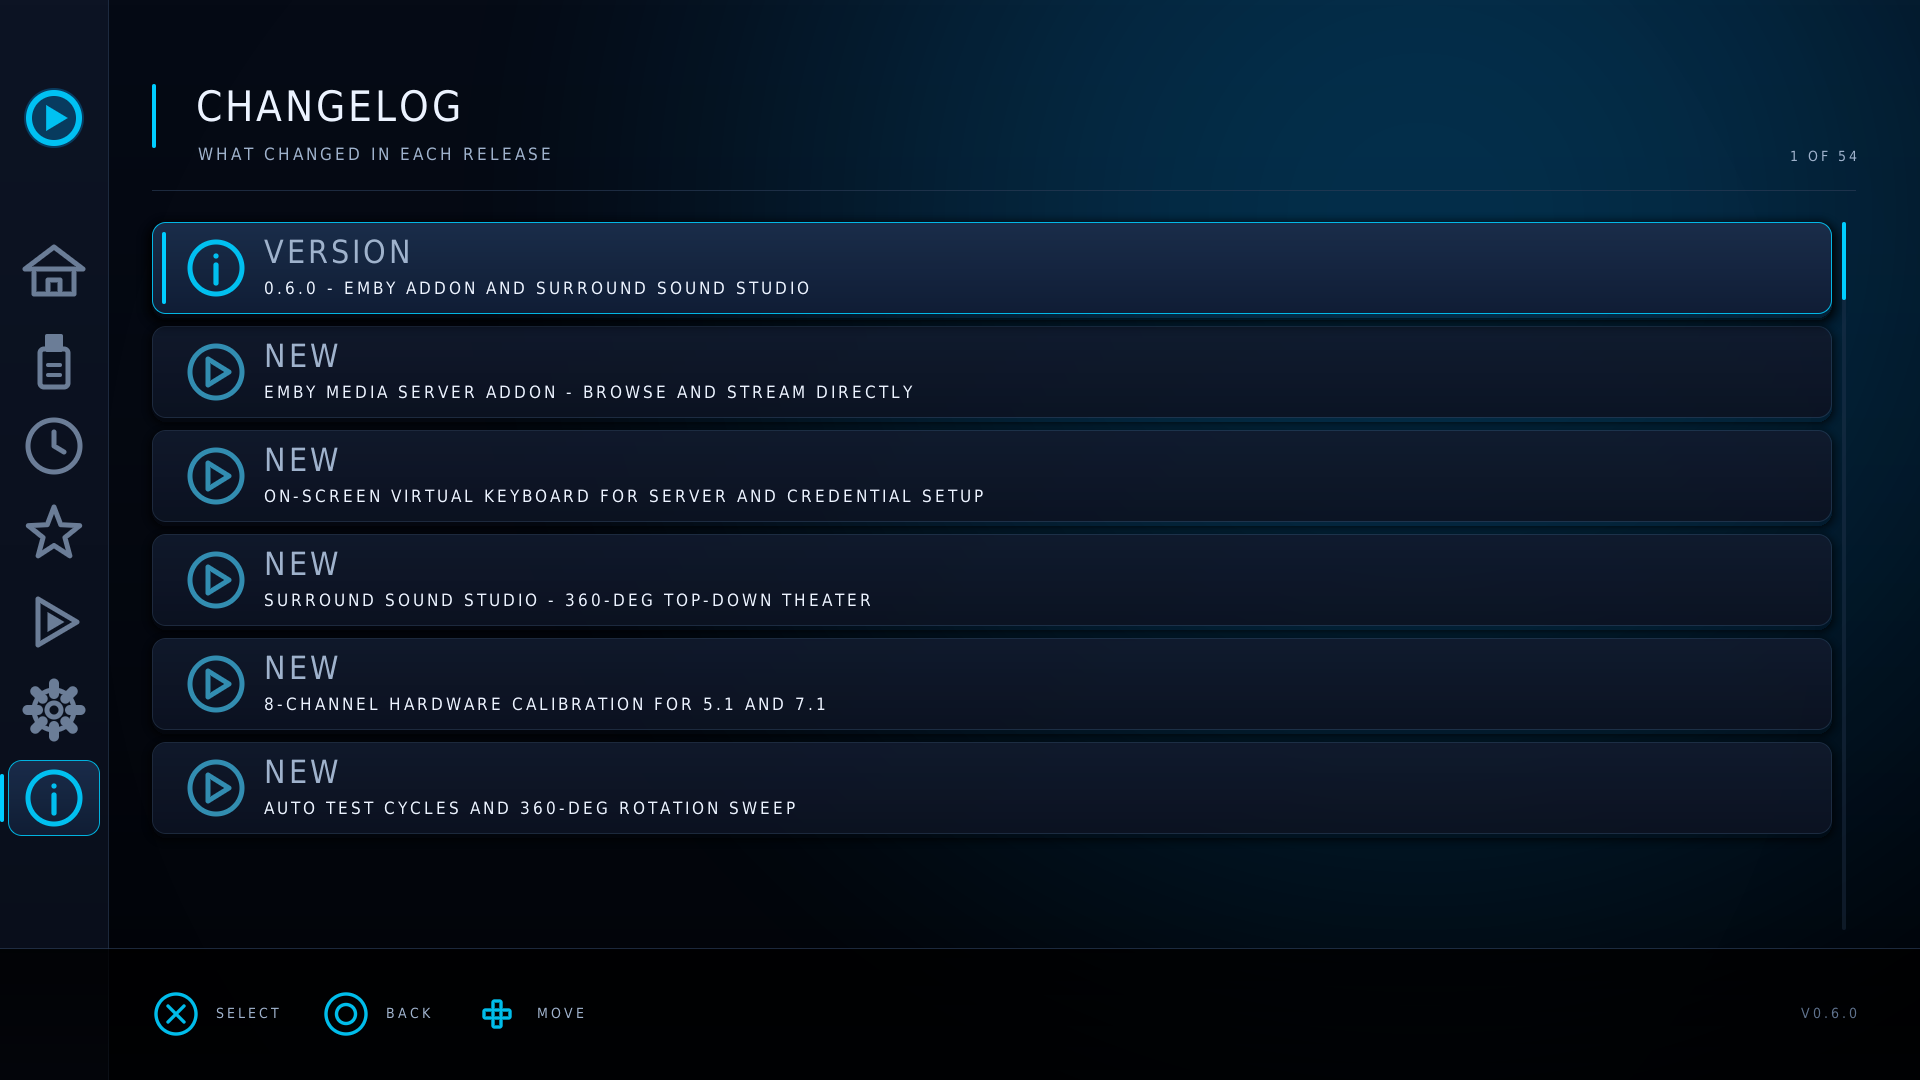
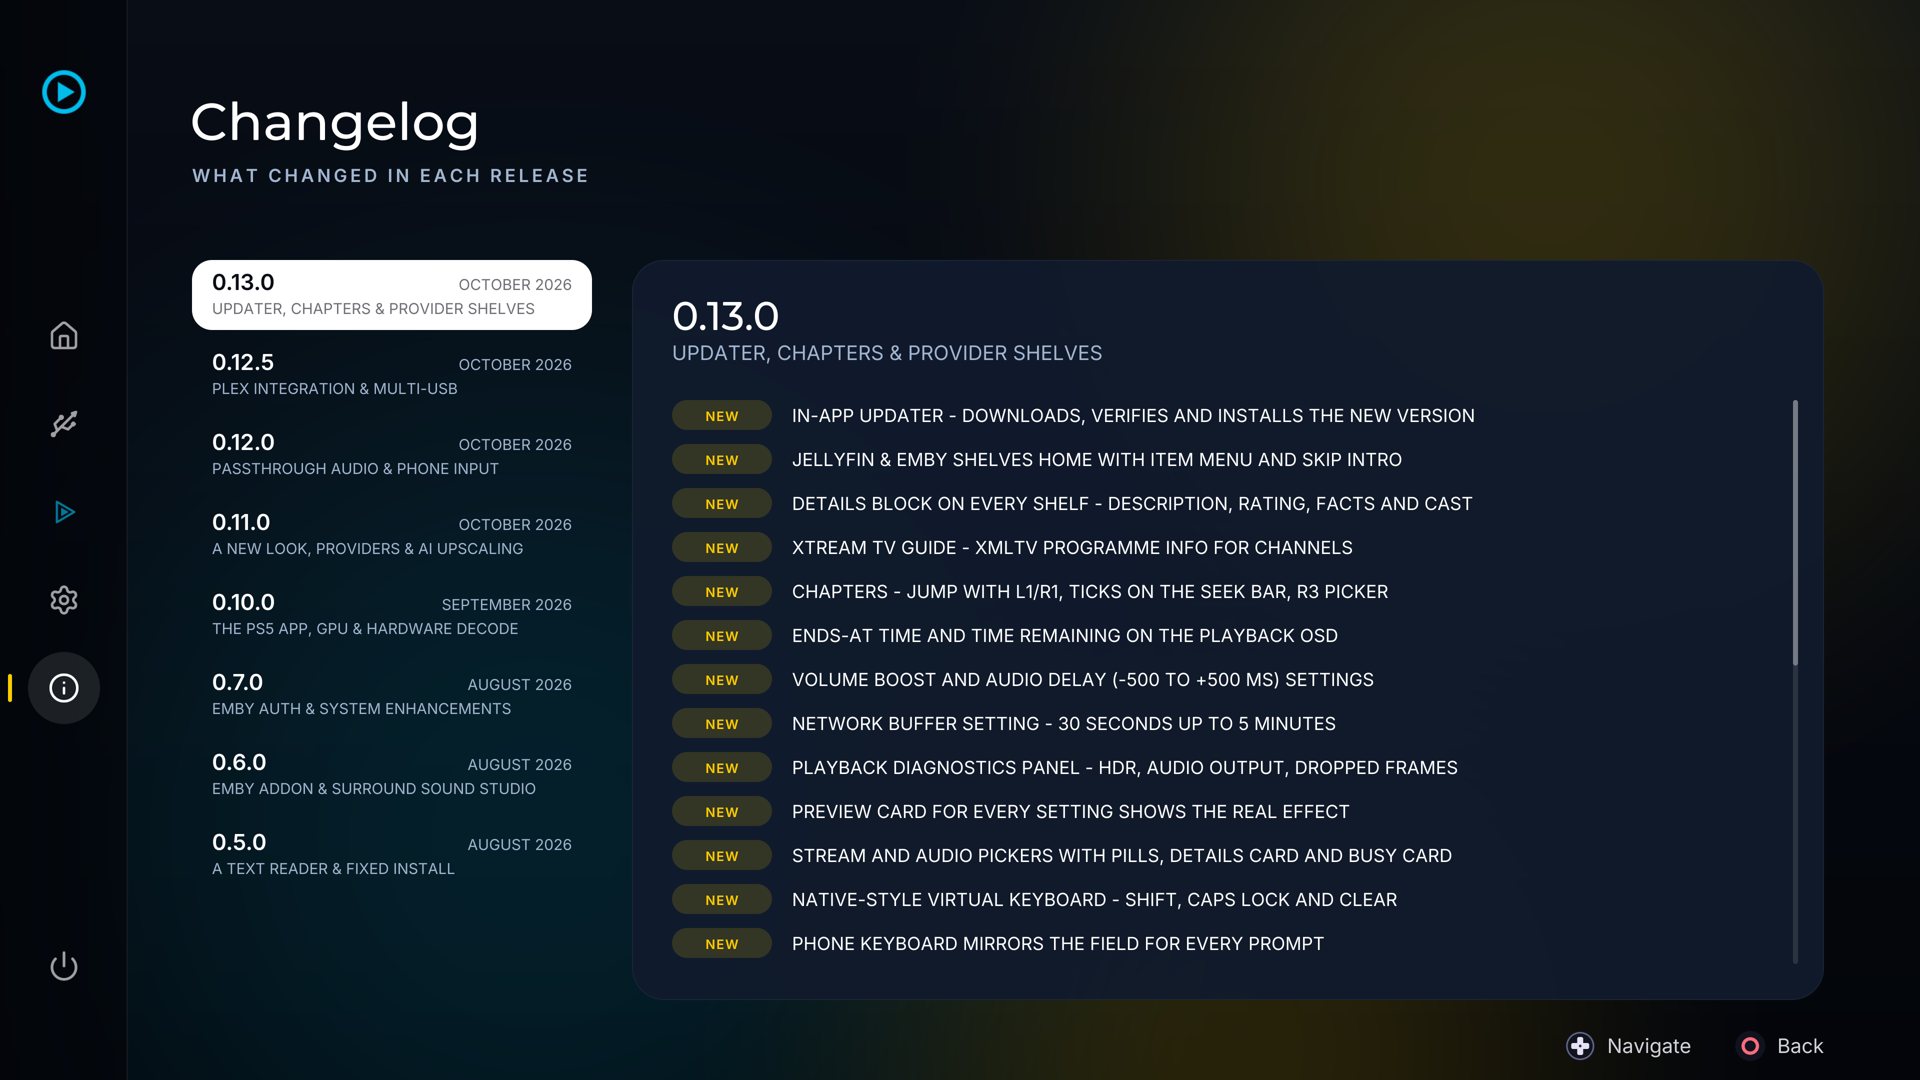
docs(readme): seven more console screenshots - the playback diagnostics panel, network storage, the changelog and the Audio, Subtitles, Interface and Experimental settings pages

diff --git a/README.md b/README.md
@@ -104,6 +104,10 @@ Video decodes on the console's own `sceVideodec2` hardware decoder — **H.264, 
 
 ![Media Info for a 4K HDR10 HEVC clip: hardware decoder, BT.2020 / ST 2084, 60 fps](docs/images/mediainfo.png)
 
+Press **OPTIONS** during playback for the diagnostics panel: codec, HDR, audio output, render and decode rate, dropped frames, queue depth, A/V clock delta and GPU / RAM / CPU graphs.
+
+![Playback diagnostics panel over 4K HDR10 video](docs/images/stats.png)
+
 #### Video Codecs
 
 | Codec | Decoder | Up to | Verified |
@@ -214,6 +218,8 @@ Manage your storage directly on the PS5 with native file operations, integrated 
 - **NTFS USB drives:** an NTFS drive is not mounted by the PS5, so EVO reads the raw disk itself, read-only: browse, play, view pictures and load subtitles from it ([docs/hardware/ntfs.md](docs/hardware/ntfs.md)).
 - **Cover art:** FTP and SMB folders show posters from `poster.jpg`, `folder.jpg` and `<name>.jpg` files beside the video.
 
+![Network Storage: Add Server, the console's own FTP (Online, 1 ms) and an SMB server that is Offline](docs/images/network.png)
+
 ---
 
 ### Subtitles & Audio Auto-Sync
@@ -241,12 +247,28 @@ Manage your storage directly on the PS5 with native file operations, integrated 
 The entire user interface is rendered on the GPU through bare-metal `sceAgc` at the panel's native resolution:
 - Locked 60 fps navigation with minimal frame times.
 - Renders only when state changes, maintaining near-zero idle GPU load.
-- Built-in color themes (Midnight is the default) plus your own `.theme` files, under **Settings → Interface & Storage → Theme** ([docs/ui/theming.md](docs/ui/theming.md)).
+- Four built-in color themes (Midnight is the default, then Carbon, Ember and Aurora) plus your own `.theme` files, under **Settings → Interface & Storage → Theme** ([docs/ui/theming.md](docs/ui/theming.md)).
 - A preview card beside every setting shows what it does before you change it.
 
 ![Settings: Video & Display, with the preview card for each row](docs/images/settings.png)
 
-![About: what EVO decodes, renders and targets](docs/images/about.png)
+<table>
+  <tr>
+    <td><img src="docs/images/settings_audio.png" alt="Settings: Audio, with volume boost, delay, channels and passthrough"></td>
+    <td><img src="docs/images/settings_subtitles.png" alt="Settings: Subtitles, with a live caption preview"></td>
+  </tr>
+  <tr>
+    <td><img src="docs/images/settings_interface.png" alt="Settings: Interface and Storage, with the four built-in themes"></td>
+    <td><img src="docs/images/settings_experimental.png" alt="Settings: Experimental, with motion smoothing, match frame rate and deep blacks"></td>
+  </tr>
+</table>
+
+<table>
+  <tr>
+    <td><img src="docs/images/about.png" alt="About: what EVO decodes, renders and targets"></td>
+    <td><img src="docs/images/changelog.png" alt="The in-app changelog, one release at a time"></td>
+  </tr>
+</table>
 
 ---
 

diff --git a/docs/README.md b/docs/README.md
@@ -87,7 +87,7 @@ ones expensive to relearn on real hardware) are in the root [CLAUDE.md](../CLAUD
 | | |
 |---|---|
 | [proprietary.md](proprietary.md) | What is never committed, and the third-party licences in the build |
-| [images/](images/) | Screenshots. The root README uses seven console captures taken 2026-11-04 (player, mediainfo, chapters, picker, settings, surround, about); the rest are older captures |
+| [images/](images/) | Screenshots. The root README uses fourteen console captures taken 2026-11-04 (player, stats, mediainfo, chapters, picker, network, surround, about, changelog, and five settings pages); the rest are older captures |
 | [video/youtube-listing.md](video/youtube-listing.md) | Copy for the release video upload |
 | [theme-mock/ui.html](theme-mock/ui.html) | A static design mock of the home screen |
 
